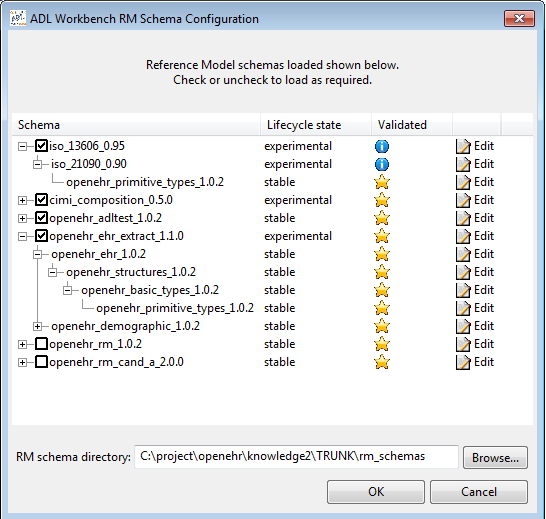
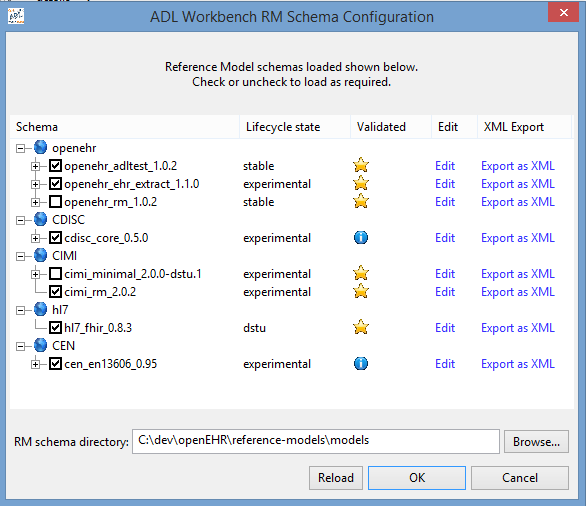
ADL Workbench docmentation updates.

diff --git a/pages/downloads/ADLworkbench/browsing_and_compiling.php b/pages/downloads/ADLworkbench/browsing_and_compiling.php
@@ -21,12 +21,12 @@ require_once($_SERVER['DOCUMENT_ROOT'].'templates/_header_english.php');
 			<tr valign="top">
 				<td style="BORDER-RIGHT-WIDTH: 0px; BORDER-TOP-WIDTH: 0px; BORDER-BOTTOM-WIDTH: 0px; BORDER-LEFT-WIDTH: 0px">
                 <a href="images/explorer_initial_view.png">
-					<img border="0" alt="Initial view in explorer" src="images/tn_explorer_initial_view.jpg" width="110" height="200"/> </a>
+					<img border="0" alt="Initial view in explorer" src="images/explorer_initial_view.png" height="350"/> </a>
                 <p><em>Initial view</em></p>
 				</td>
 				<td style="BORDER-RIGHT-WIDTH: 0px; BORDER-TOP-WIDTH: 0px; BORDER-BOTTOM-WIDTH: 0px; BORDER-LEFT-WIDTH: 0px">
                 <a href="images/explorer_spec.png">
-					<img border="0" alt="Explorer showing specialisation" src="images/tn_explorer_spec.jpg" width="107" height="200"/> </a>
+					<img border="0" alt="Explorer showing specialisation" src="images/explorer_spec.png" height="350"/> </a>
                 <p><em>Specialisation view</em></p>
 				</td>
 			</tr>
@@ -37,8 +37,6 @@ require_once($_SERVER['DOCUMENT_ROOT'].'templates/_header_english.php');
 			<h2>Compiling archetypes</h2>
 			<p>When you start the ADL Workbench, archetypes are not compiled. The easiest way to compile them is to hit F7, which will compile all of the archetypes in the currently selected repository in one go. This can be interrupted with Shift-ESC.'Compiling' means parsing, validating and flattening. Archetypes can also be compiled individually by selecting them in the explorer. Other options under the repository menu allow you to compile archetypes in selected subtrees. If you select a specialised archetype, its specialisation parents will automatically compile.</p>
 			<p>If your repository has templates in it, you can compile a template in the same way. If you select a template in the Template explorer tab, you will see that all its dependencies compile, i.e. all archetypes implicated in its slot-filling and specialisation statements.</p>
-			<p>If your repository contains legacy '.adl' archetypes, they will initially generate differential (.adls) source form archetypes, containing the 'generated' marker at the top. In this case, when you hit F7 or compile by another means, you will see the '(lf)' marker in the archetype explorer, indicating those archetypes whose primary form is a 'legacy flat' file. If you subsequently change either the .adl file or the .adls file with an editor, the AWB will recompile from whichever one was changed. The archetype icons in the explorer change according to their current compilation status, as shown below.</p>
-			<p><a href="images/compiler_statuses.png"><img border="0" alt="Compiler statuses" src="images/tn_compiler_statuses.jpg" width="157" height="200"/> </a></p>
 			<p>The compilation process performs validation on every archetype and reports errors. Errors fall into two categories: syntactic, denoted with codes starting with 'S', and validity errors, denoted with 'V' codes. The errors are shown both in the status tab and the errors tab at the bottom. The status window is shown below.</p>
 			
 			<table style="BACKGROUND-COLOR: #ffffff" border="0" cellspacing="2" cellpadding="2" width="70%">
@@ -46,12 +44,12 @@ require_once($_SERVER['DOCUMENT_ROOT'].'templates/_header_english.php');
 			<tr valign="top">
 				<td style="BORDER-RIGHT-WIDTH: 0px; BORDER-TOP-WIDTH: 0px; BORDER-BOTTOM-WIDTH: 0px; BORDER-LEFT-WIDTH: 0px">
 				<a href="images/compile_1.png">
-					<img border="0" alt="Status window" src="images/tn_compile_1.jpg" width="200" height="60"/> </a>
+					<img border="0" alt="Status window" src="images/compile_1.png" width="360"/> </a>
 				<p><em>Compilation feedback</em></p>
 				</td>
 				<td style="BORDER-RIGHT-WIDTH: 0px; BORDER-TOP-WIDTH: 0px; BORDER-BOTTOM-WIDTH: 0px; BORDER-LEFT-WIDTH: 0px">
 				<a href="images/compile_2.png">
-					<img border="0" alt="Status window" src="images/tn_compile_2.jpg" width="200" height="61"/> </a>
+					<img border="0" alt="Status window" src="images/compile_2.png" width="360"/> </a>
 				<p><em>Compilation errors</em></p>
 				</td>
 			</tr>
@@ -59,14 +57,13 @@ require_once($_SERVER['DOCUMENT_ROOT'].'templates/_header_english.php');
 			</table>
 			
 			<p>The compilation errors can also be seen in the Errors tab at the bottom, classified according to type, as shown below.</p>
-			<a href="images/errors_2.png">
-			<p><img border="0" alt="Error tree" src="images/tn_errors_2.jpg" width="200" height="43"/> </a></p>
+			<a href="images/errors_2.png"><p><img border="0" alt="Error tree" src="images/errors_2.png" width="750"/> </a></p>
 		  
 			<h3>Metrics Report</h3>
 			<p>The 'Metrics' tab provides a report of counts of archetypes, compiled archetypes, specialised archetypes and so on, for the current repository.</p>
-			<p><a href="images/catalogue_metrics.png"> <img border="0" alt="Repository metrics" src="images/tn_catalogue_metrics.jpg"/> </a></p>
+			<p><a href="images/catalogue_metrics.png"> <img border="0" alt="Repository metrics" src="images/catalogue_metrics.png"/> </a></p>
 			<p>The 'Statistics' tab provides a statistical report of the use of RM types and prperties in archetypes, as well as terminology definitions and bindings.</p>
-			<p><a href="images/catalogue_statistics.png"> <img border="0" alt="Repository statistics" src="images/tn_catalogue_statistics.jpg"/> </a></p><br/>
+			<p><a href="images/catalogue_statistics.png"> <img border="0" alt="Repository statistics" src="images/catalogue_statistics.png"/> </a></p><br/>
 			
 			
 			<h2>Viewing an archetype</h2>
@@ -79,12 +76,12 @@ require_once($_SERVER['DOCUMENT_ROOT'].'templates/_header_english.php');
 			<tr valign="top">
 				<td style="BORDER-RIGHT-WIDTH: 0px; BORDER-TOP-WIDTH: 0px; BORDER-BOTTOM-WIDTH: 0px; BORDER-LEFT-WIDTH: 0px">
 				<a href="images/description_1.png">
-					<img border="0" alt="Archetype description" src="images/tn_description_1.jpg" width="200" height="157"/> </a>
+					<img border="0" alt="Archetype description" src="images/description_1.png" width="360"/> </a>
 				<p><em>Description sections</em></p>
 				</td>
 				<td style="BORDER-RIGHT-WIDTH: 0px; BORDER-TOP-WIDTH: 0px; BORDER-BOTTOM-WIDTH: 0px; BORDER-LEFT-WIDTH: 0px">
 				<a href="images/description_unicode.png">
-					<img border="0" alt="Description unicode" src="images/tn_description_unicode.jpg" width="200" height="158"/> </a>
+					<img border="0" alt="Description unicode" src="images/description_unicode.png" width="360"/> </a>
 				<p><em>Description (unicode example)</em></p>
 				</td>
 			</tr>
@@ -118,24 +115,24 @@ require_once($_SERVER['DOCUMENT_ROOT'].'templates/_header_english.php');
 			<tr valign="top">
 				<td style="BORDER-RIGHT-WIDTH: 0px; BORDER-TOP-WIDTH: 0px; BORDER-BOTTOM-WIDTH: 0px; BORDER-LEFT-WIDTH: 0px">
 				<a href="images/node_map_diff_spec_no_RM.png">
-					<img border="0" alt="Differential, specialised, no RM classes" src="images/tn_node_map_diff_spec_no_RM.jpg" width="200" height="123"/> </a>
+					<img border="0" alt="Differential, specialised, no RM classes" src="images/node_map_diff_spec_no_RM.png" width="360"/> </a>
 				<p><em>Differential, specialised, domain view</em></p>
 				</td>
 				<td style="BORDER-RIGHT-WIDTH: 0px; BORDER-TOP-WIDTH: 0px; BORDER-BOTTOM-WIDTH: 0px; BORDER-LEFT-WIDTH: 0px; padding-left:4em;">
 				<a href="images/node_map_diff_spec_RM_classes.png">
-					<img border="0" alt="Node map, differential, specialised, RM classes" src="images/tn_node_map_diff_spec_RM_classes.jpg" width="200" height="121"/> </a>
+					<img border="0" alt="Node map, differential, specialised, RM classes" src="images/node_map_diff_spec_RM_classes.png" width="360"/> </a>
 				<p><em>Node map, differential, specialised, technical view (includes RM classes)</em></p>
 				</td>
 			</tr>
 			<tr valign="top">
 				<td style="BORDER-RIGHT-WIDTH: 0px; BORDER-TOP-WIDTH: 0px; BORDER-BOTTOM-WIDTH: 0px; BORDER-LEFT-WIDTH: 0px">
 				<a href="images/node_map_flat_spec_no_RM.png">
-					<img border="0" alt="Flat, specialised, no RM" src="images/tn_node_map_flat_spec_no_RM.jpg" width="186" height="200"/> </a>
+					<img border="0" alt="Flat, specialised, no RM" src="images/node_map_flat_spec_no_RM.png" width="360"/> </a>
 				<p><em>Flat, specialised, technical view</em></p>
 				</td>
 				<td style="BORDER-RIGHT-WIDTH: 0px; BORDER-TOP-WIDTH: 0px; BORDER-BOTTOM-WIDTH: 0px; BORDER-LEFT-WIDTH: 0px; padding-left:4em;">
 				<a href="images/node_map_unicode.png">
-					<img border="0" alt="Node map, unicode" src="images/tn_node_map_unicode.jpg" width="180" height="200"/> </a>
+					<img border="0" alt="Node map, unicode" src="images/node_map_unicode.png" width="360"/> </a>
 				<p><em>Node map, unicode</em></p>
 				</td>
 			</tr>
@@ -175,24 +172,24 @@ require_once($_SERVER['DOCUMENT_ROOT'].'templates/_header_english.php');
 			<tr valign="top">
 				<td style="BORDER-RIGHT-WIDTH: 0px; BORDER-TOP-WIDTH: 0px; BORDER-BOTTOM-WIDTH: 0px; BORDER-LEFT-WIDTH: 0px">
 				<a href="images/paths_body_temp_diff_nat_lang.png">
-					<img border="0" alt="Paths, natural language" src="images/tn_paths_body_temp_diff_nat_lang.jpg" width="200" height="106"/> </a>
+					<img border="0" alt="Paths, natural language" src="images/paths_body_temp_diff_nat_lang.png" width="360" height="106"/> </a>
 				<p><em>Path map, natural language paths</em></p>
 				</td>
 				<td style="BORDER-RIGHT-WIDTH: 0px; BORDER-TOP-WIDTH: 0px; BORDER-BOTTOM-WIDTH: 0px; BORDER-LEFT-WIDTH: 0px">
 				<a href="images/paths_body_temp_diff_machine.png">
-					<img border="0" alt="Path map, machine codes" src="images/tn_paths_body_temp_diff_machine.jpg" width="200" height="111"/> </a>
+					<img border="0" alt="Path map, machine codes" src="images/paths_body_temp_diff_machine.png" width="360" height="111"/> </a>
 				<p><em>Path map, machine paths</em></p>
 				</td>
 			</tr>
 			<tr valign="top">
 				<td style="BORDER-RIGHT-WIDTH: 0px; BORDER-TOP-WIDTH: 0px; BORDER-BOTTOM-WIDTH: 0px; BORDER-LEFT-WIDTH: 0px">
 				<a href="images/paths_diff_heart_rate_machine.png">
-					<img border="0" alt="Path map diff parent" src="images/tn_paths_diff_heart_rate_machine.jpg" width="200" height="137"/> </a>
+					<img border="0" alt="Path map diff parent" src="images/paths_diff_heart_rate_machine.png" width="360" height="137"/> </a>
 				<p><em>Path map, parent archetype</em></p>
 				</td>
 				<td style="BORDER-RIGHT-WIDTH: 0px; BORDER-TOP-WIDTH: 0px; BORDER-BOTTOM-WIDTH: 0px; BORDER-LEFT-WIDTH: 0px">
 				<a href="images/paths_heart_rate-pulse_flat_machine.png">
-					<img border="0" alt="Path map, flat child" src="images/tn_paths_heart_rate-pulse_flat_machine.jpg" width="200" height="134"/> </a>
+					<img border="0" alt="Path map, flat child" src="images/paths_heart_rate-pulse_flat_machine.png" width="360" height="134"/> </a>
 				<p><em>Path map, flat child archetype</em></p>
 				</td>
 			</tr>
@@ -212,7 +209,7 @@ require_once($_SERVER['DOCUMENT_ROOT'].'templates/_header_english.php');
           
 			<h3>Slot map</h3>
 			<p>Some archetypes contain slots, which are joining points to other archetypes. A slot is defined as a constraint that specifies the possible archetypes that may be used at this point. We can think of the archetypes that could fill the slot as 'suppliers', i.e. archetypes that this archetype uses, and archetypes having slots which the current archetype matches as 'clients'. The ADL Workbench evaluates the slots and displays both of these lists, as shown below.</p>
-			<p><a href="images/slots_1.png"><img border="0" src="images/tn_slots_1.jpg" width="180" height="200"/> </a></p>
+			<p><a href="images/slots_1.png"><img border="0" src="images/slots_1.png" width="400"/> </a></p>
 			
 			<h3>Terminology</h3>
 			<p>All archetypes contain an internal terminology, consisting of 'id-codes' (node identifiers), 'at-codes' (identifying coded values) and 'ac-codes' (identifying value sets). They may also include bindings between any of these and external terminologies and other terminology resources. These elements are found in the 'terminology' section of the archetype, such as shown here.</p>
@@ -221,12 +218,12 @@ require_once($_SERVER['DOCUMENT_ROOT'].'templates/_header_english.php');
 					<tr valign="top">
 						<td style="BORDER-RIGHT-WIDTH: 0px; BORDER-TOP-WIDTH: 0px; BORDER-BOTTOM-WIDTH: 0px; BORDER-LEFT-WIDTH: 0px">
 						<a href="images/terminology.png">
-							<img border="0" alt="Terminology - id codes" width="240" src="images/terminology.png"/> </a>
+							<img border="0" alt="Terminology - id codes" width="350" src="images/terminology.png"/> </a>
 						<p><em>Terminology - id codes</em></p>
 						</td>
 						<td style="BORDER-RIGHT-WIDTH: 0px; BORDER-TOP-WIDTH: 0px; BORDER-BOTTOM-WIDTH: 0px; BORDER-LEFT-WIDTH: 0px; padding-left:4em;">
 						<a href="images/terminology2.png">
-							<img border="0" alt="Terminology - at/ac codes and value sets" width="240" src="images/terminology2.png"/> </a>
+							<img border="0" alt="Terminology - at/ac codes and value sets" width="350" src="images/terminology2.png"/> </a>
 						<p><em>Terminology - at/ac codes and value sets</em></p>
 						</td>
 					</tr>
@@ -235,11 +232,11 @@ require_once($_SERVER['DOCUMENT_ROOT'].'templates/_header_english.php');
 			
 			<h3>ADL view</h3>
 			<p>The ADL source of an archetype can be viewed in the 'ADL' tab, regardless of whether it has compiled successfully or not. The 'ADL 1.4' and 'ADL 2' source sub-tabs are editable, and changes made can be saved using ctrl-S or the 'Save' button, which will cause an immediate re-compile.</p>
-			<p><a href="images/archetype_source_view.png"><img border="0" src="images/tn_archetype_source_view.jpg"/></a></p>
+			<p><a href="images/archetype_source_view.png"><img border="0" src="images/archetype_source_view.png" width="760"/></a></p>
 			
 			<h3>Serialised views: ADL, ODIN, XML, JSON</h3>
 			<p>Compiled archetypes can be viewed in various serialised formats, which can be used for testing ADL, XML, JSON and other software components. In both differential and flat forms, any compiled archetype can be viewed as ADL, ODIN, XML and JSON. The ODIN form is equivalent to a DOM tree in XML, but more regular.</p>
-			<p><a href="images/source_1.png"><img border="0" src="images/tn_source_1.jpg" width="200" height="173"/></a></p>
+			<p><a href="images/source_1.png"><img border="0" src="images/source_1.png" width="400"/></a></p>
 			<p>The output in the XML view can be controlled by a set of rules accessible from the XML menu.</p>
 			
 			<h3>Validity report</h3>
@@ -247,7 +244,7 @@ require_once($_SERVER['DOCUMENT_ROOT'].'templates/_header_english.php');
 			
 			<h3>Statistics report</h3>
 			<p>The 'Statistics' tab displays a statistics report for RM class and terminology usage in the archetype.</p>
-			<p><a href="images/archetype_statistics.png"><img border="0" src="images/tn_archetype_statistics.jpg"/></a></p>
+			<p><a href="images/archetype_statistics.png"><img border="0" src="images/archetype_statistics.png" width="760"/></a></p>
 		
 <!-- ------------------------------------------- Content ends here ------------------------------------------------- -->
 		</div>	

diff --git a/pages/downloads/ADLworkbench/learning_about.php b/pages/downloads/ADLworkbench/learning_about.php
@@ -16,24 +16,31 @@ require_once($_SERVER['DOCUMENT_ROOT'].'templates/_header_english.php');
 			<p>Note: what has been known as the 'ADL 1.5' formalism has been renamed to 'ADL 2' at the Oslo working meeting September 2014, due to breaking changes with respect to ADL 1.4. Backwardly compatible versions such as 1.5, 1.6 may be introduced in the future, taking features from ADL 2, in order to provide an upgrade pathway for implementers.</p>
 
 			<p>The ADL (Archetype Definition Language) release 2 formalism, and its object model counterpart, the AOM (Archetype Object Model) is a major advance on the previous 1.4 release. It fixes a number of problems with ADL/AOM 1.4, provides a unified formalism for both archetypes and templates, and adds a number of useful new features. These help pages don't attempt to provide the pedagogic basis of the formalism, which can be found in the specifications, rather it illustrates each feature of the ADL/AOM 2 formalism with real examples you can see for yourself. The specifications are found <a href="http://www.openehr.org/programs/specification/releases/currentbaseline#ADL2">here</a>.</p>
-			<p>One question you may have is: what if I am not interested in the ADL syntax? You might be using XML archetypes for example. It is important to understand the various roles of ADL, XML and the AOM. These are explained in some detail in the specifications (see below). Briefly, the ADL workbench performs most of its work using AOM structures. It also has an ADL parser and serialiser, and in the near future, will have a parser and serialiser for XML archetypes. Apart from some syntax basics, nearly all the validation carried out by the AWB is on AOM structures and has nothing to do with the ADL syntax. Additionally, ADL is a human readable syntax good for understanding the concepts and examples. However, it does not have to be used in archetype authoring or production systems - the XML form is completely equivalent.</p>
+			<p>One question you may have is: what if I am not interested in the ADL syntax? You might be using XML archetypes for example. It is important to understand the various roles of ADL, XML and the AOM. These are explained in some detail in the <a href="http://www.openehr.org/programs/specification/releases/currentbaseline#ADL2">specifications</a>. Briefly, the ADL workbench performs most of its work using AOM structures. It also has an ADL parser and serialiser, and in the near future, will have a parser and serialiser for XML archetypes. Apart from some syntax basics, nearly all the validation carried out by the AWB is on AOM structures and has nothing to do with the ADL syntax. Additionally, ADL is a human readable syntax good for understanding the concepts and examples. However, it does not have to be used in archetype authoring or production systems - the XML form is completely equivalent.</p>
 
 			<h3>Specifications Status</h3>
-			<p>These specifications will be released in early 2014 as stable Trial Specifications. Although most of the principal features have been determined and implemented, there remain a number of details which could be changed; these are indicated in the text below. Your feedback on any aspect of the specification is encouraged, and can be reported on the <a href="http://www.openehr.org/issues/browse/SPECPR" target="_blank">openEHR SPEC_PR Jira project</a>. Please create new issues with the 'ADL 2' component specified.</p>
+			<p>The current state of the specifications is available <a href="http://www.openehr.org/wiki/display/ADL/ADL+2+Specifications">here</a>. Although most of the principal features have been determined and implemented, there remain a number of details which could be changed; these are indicated in the text below. Your feedback on any aspect of the specification is encouraged, and can be reported on the <a href="http://www.openehr.org/issues/browse/SPECPR" target="_blank">openEHR SPEC_PR Jira project</a>. Please create new issues with the 'ADL 2' component specified.</p>
 			<p>The remainder of this page describes the configuration of the tool for viewing the examples, and then describes in turn each of the features of ADL/AOM 2 grouped in the categories 'New features' and
 			'Changes'.</p>
 
 			
 			<h2>ADL/AOM 2 - New features</h2>
 
+			<h3>Meta-data changes</h3>
+			<p>ADL 2 adds more meta-data elements to the description section, including governance and IP-related. It also moves the copyright item from being a translatable string to a top-level (non-translated) string. See <a href="http://www.openehr.org/wiki/display/ADL/Knowledge+Artefact+Meta-data">here</a> for more details.</p>
+			<p><img src="images/adl2_meta_data.png" width="860"></p>
+
 			<h3>New internal coding system</h3>
 			<p>The coding system used in ADL 1.4 archetypes used at-codes to identify everything, apart from occasional ac-codes to identify external value sets. This has been replaced by a new coding system in which id-codes identify all archetype nodes, at-codes identify terminology values and ac-codes identify terminology value sets, internal and external. The new system is described <a href="http://www.openehr.org/wiki/pages/viewpage.action?pageId=49053703">here</a></p>
+			<p><img src="images/adl2_id_codes.png" width="600"></p>
+			<p><img src="images/adl2_at_ac_codes.png" width="600"></p>
 
 			<h3>Tuples replace domain-specific syntax</h3>
-			<p>The syntax used to represent DV_QUANTITY, DV_ORDINAL and CODE_PHRASE constraints for openEHR archetypes is now replaced by a standard 'tuple' syntax that enables any co-varying constraint to be expressed, including the afore-mentioned types. Details <a href="http://www.openehr.org/wiki/display/spec/ADL+1.5+Power+Syntax+Proposals">here</a></p>
+			<p>The syntax used to represent DV_QUANTITY, DV_ORDINAL and CODE_PHRASE constraints for openEHR archetypes is now replaced by a standard 'tuple' syntax that enables any co-varying constraint to be expressed, including the afore-mentioned types. Details <a href="http://www.openehr.org/wiki/display/ADL/Tuple+Proposal">here</a></p>
+			<p><img src="images/adl2_tuples_quantity.png" width="860"></p>
 
 			<h3>Terminology value-set constraints moved to terminology section</h3>
-			<p>Value sets used to be constrained inline. They are now moved to the terminology, in the form of a new 'value-set' construct, described <a href="http://www.openehr.org/wiki/display/spec/ADL+1.5+-+where+to+define+value+sets">here</a>.</p>
+			<p>Value sets used to be constrained inline. They are now moved to the terminology, in the form of a new 'value-set' construct, described <a href="http://www.openehr.org/wiki/display/ADL/Value+sets+proposal">here</a>.</p>
 
 			<h3>Terminology bindings are URIs</h3>
 			<p>All bindings from internal codes to external entities are done using IHTSDO-style URIs. This enables the archetype terminology bindings structure to be simplified into one list.</p>

diff --git a/pages/downloads/ADLworkbench/tool_configuration.php b/pages/downloads/ADLworkbench/tool_configuration.php
@@ -16,11 +16,12 @@ require_once($_SERVER['DOCUMENT_ROOT'].'templates/_header_english.php');
 			<p>In order to work with the examples described below, the following configuration is advised. Experienced users may skip this step.</p>
 			
 			<a name="rmschemaconfiguration"></a><h3>RM Schema configuration</h3>
-			<p>Reference Model (RM) Schemas are used by the ADL Workbench to validate archetypes and templates. Schemas are expressed as dADL files and have a '.bmm' (basic meta-model) extension. The currently available RM schemas can be found <a href="https://github.com/openEHR/reference-models" target="_blank">here</a>. These schemas are defined in a nested way, with most files visible here being used as component schemas for a small number of top-level schemas representing the openEHR Reference Model, EN13606 model and so on.</p>
-			<p>You will need to have all the relevant RM schemas selected for the repository libraries described above to work. Assuming you have followed the above instructions, you do this as follows:</p>
+			<p>Reference Model (RM) Schemas are used by the ADL Workbench to validate archetypes and templates. Schemas are expressed as ODIN (was 'dADL') files and have a '.bmm' (basic meta-model) extension. These schemas are defined in a nested way, with most files visible here being used as component schemas for a small number of top-level schemas representing the openEHR Reference Model, EN13606 model and so on. The ADL Workbench comes with schemas for various reference models bundled.</p>
+			<p>If you want access to RM schemas not yet bundled with the workbench, they can be found <a href="https://github.com/openEHR/reference-models" target="_blank">here</a>. Clone this repository in the normal way, and use the RM Schemas dialog to point to this location instead of the bundled schemas location.</p>
+			<p>Whether using the bundled or Github repository schemas, you will need to have all the relevant RM schemas selected within the workbench, for your archetypes to work. This is done as follows:</p>
 			<ul>
 				<li>Select the RM Schemas menu &gt; Configure Schemas...</li>
-				<li>Ensure that the openehr, adltest, and en13606 (if relevant) schemas are checked, as shown <a href="images/options_rm_schema_config.png">here</a>.</li>
+				<li>Ensure that the schemas you require are checked, as shown <a href="images/options_rm_schema_config.png">here</a>.</li>
 				<li>Save the configuration.</li>
 			</ul>
 			<p>You can use <a href="images/profile_combo.png">the profile combo selector above the archetype explorer</a> to switch between the libraries. The remaining sections below describe how to see the ADL/AOM 2 changes using the archetypes you have configured above.</p>
@@ -32,8 +33,8 @@ require_once($_SERVER['DOCUMENT_ROOT'].'templates/_header_english.php');
 			<h3>Location on various Platforms</h3>
 			<p>Options for the ADL workbench, and also the command line tool adlc are located in a .cfg file named after the particular tool e.g. adl_workbench.cfg, adlc.cfg. This file will be in the standard application configuration area for your operating system. For adl_workbench for example, it will be in a location like the following:</p>
 			<ul>
-				<li><em>Windows XP / Vista</em>: C:\Documents and Settings\%username%\AppData\Local\openEHR\adl_workbench\adl_workbench.cfg</li>
-				<li><em>Windows 7</em>: C:\Users\%username%\AppData\Local\openEHR\adl_workbench\adl_workbench.cfg</li>
+				<li><em>Windows XP / Vista</em>: <br/>C:\Documents and Settings\%username%\AppData\Local\openEHR\adl_workbench\adl_workbench.cfg</li>
+				<li><em>Windows 7 / 8</em>: C:\Users\%username%\AppData\Local\openEHR\adl_workbench\adl_workbench.cfg</li>
 				<li><em>Mac OSX</em>: $HOME/openEHR/adl_workbench/adl_workbench.cfg</li>
 				<li><em>Linux:</em> $HOME/openEHR/adl_workbench/adl_workbench.cfg</li>
 			</ul>

diff --git a/pages/downloads/ADLworkbench/release_notes.php b/pages/downloads/ADLworkbench/release_notes.php
@@ -14,12 +14,25 @@ require_once($_SERVER['DOCUMENT_ROOT'].'templates/_header_english.php');
 			
 			<h2>Release History</h2>
 			
-			<h3>30 October 2015 ADL 2</h3>
+			<h3>25 November 2014 - ADL 2.0.5 (<a href="https://github.com/openEHR/adl-tools/tree/adl_2.0.5">Github tag adl_2.0.5</a>) 
+				(Jira - <a href="http://www.openehr.org/issues/issues/?jql=project%20%3D%20AWB%20AND%20fixVersion%20%3D%20%22ADL%202.0.5%20Workbench%22%20AND%20status%20%3D%20Closed%20ORDER%20BY%20priority%20DESC">new features</a>; <a href="http://www.openehr.org/issues/issues/?jql=project%20%3D%20AWBPR%20AND%20fixVersion%20%3D%20%22ADL%202.0.5%20Workbench%22%20AND%20status%20%3D%20Closed%20ORDER%20BY%20priority%20DESC">issues fixed</a>)</h3>
 			<ul>
 				<li><em>Archetype Object Model / compiler</em>:
 					<ul>
 						<li>New flattener, with specialise-and-clone, numerous edge cases fixed.</li>
 						<li>Improvements in specialised archetype validation</li>
+						<li>New meta-data items now supported:
+							<ul>
+								<li>rm_release=n.m.p - top-level meta-data</li>
+								<li>original_publisher: String - name of original publishing organisation</li>
+								<li>original_namespace: String - namespace of original publishing organisation</li>
+								<li>custodian_organisations: String - name of the current custodian organisation</li>
+								<li>custodian_namespace: String - namespace of current custodian organisation</li>
+								<li>licence: String - short text and URL pointing to licence under which this artefact is available</li>
+								<li>ip_acknowledgements: Map&lt;String, String&gt; - keyed list of 3rd party IP acknowledgements, each consisting of a single word key, and a short text and URL pointing to the online text describing how the IP available for this artefact.</li>
+								<li>conversion_details: Map&lt;String, String&gt; - keyed list of values indicating details of conversion from an external artefact, where applicable.</li>
+							</ul>
+						</li>
 					</ul>
 				</li>
 				<li><em>Tool functionality</em>:
@@ -33,6 +46,8 @@ require_once($_SERVER['DOCUMENT_ROOT'].'templates/_header_english.php');
 					<ul>
 						<li>Lazy load template visualiser mode to handle very large template structures</li>
 						<li>Improved colour / font scheme in inheritance visualisation mode</li>
+						<li>New Description / Governance sub-tab containing most of the above-mentioned meta-data.</li>
+						<li>New Clients/Suppliers top-level tab showing client (user) archetypes containing use_archetype references to the current archetype, and supplier archetypes, i.e. archetypes for which the current archetype has a use_archetype reference.</li>
 					</ul>
 				</li>
 			</ul>
